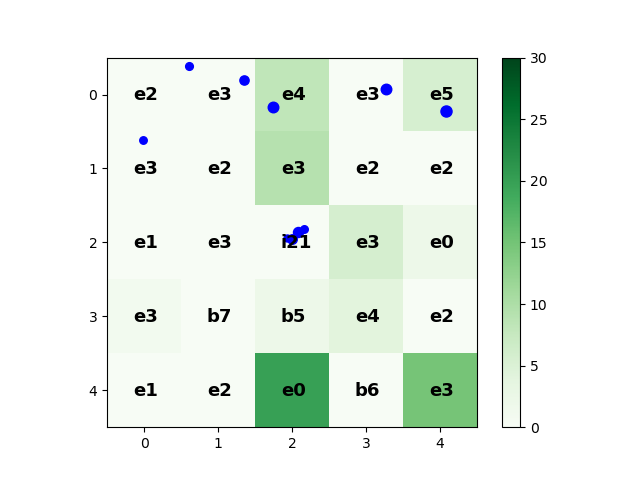
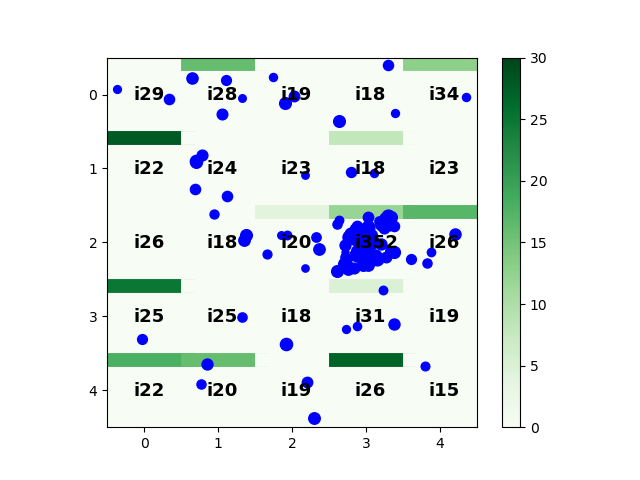
indexing scientist in dept

diff --git a/classScientist.py b/classScientist.py
@@ -12,7 +12,7 @@ class Scientist():
     def __repr__(self):
         """String representation of Scientist"""
         return str([self.hindex, self.career, self.citcount])
-        
+
     def cite(self, val):
         """decides if scientist chooses to cite another scientist in the same cell"""
         choice = np.random.randint(0, 2)
@@ -20,12 +20,15 @@ class Scientist():
         # choice = 1 means they don't cite 
         picked = Scientist()
         if choice == 0:
+            #finding scientist with most citations
             maxcit = 0
             maxSci = Scientist()
             for sci in val:
                 if sci.citcount > maxcit:
                     maxcit = sci.citcount
                     maxSci = sci
+            
+            #find the scientist that actually gets cited
             if maxcit < 5:
                 picked = np.random.choice(val)
             else:

diff --git a/Run.py b/Run.py
@@ -42,7 +42,8 @@ def batchRun(board, numScientists, numRuns):
     for j in range(numRuns):
         # keep track of which cells the scientists are hitting to check overlap
         cellsHit = {}
-        for scientist in dept:
+        for idx in range(len(dept)):
+            scientist = dept[idx]
             location = scientist.chooseCell(board)
             if location in cellsHit.keys():
                 cellsHit[location].append(scientist)
@@ -53,6 +54,7 @@ def batchRun(board, numScientists, numRuns):
                 dept.remove(scientist)
                 dept.append(Scientist())
         print("Board with payoff values: ", run(board, cellsHit, j+1))
+        print("dept: ", dept)
         print()
 
     #animating plots
@@ -64,4 +66,3 @@ def batchRun(board, numScientists, numRuns):
 
 board = Board(5, 5)
 batchRun(board, 10, 10)
-dept

diff --git a/classBoard.py b/classBoard.py
@@ -28,7 +28,7 @@ class Board():
         makes it easier to get a heatmap from a 2D matrix of data"""
         return [[self.board[i][j].payoff for i in range(self.cols)] for j in range(self.rows)]
 
-def drawBoard(self, cellsHit, numRun):
+    def drawBoard(self, cellsHit, numRun):
         """produces a plot of the board for a given run and saves the image"""
         data = self.getPayoffs()
         og = plt.imshow(self.originalPays, cmap="Greens", vmin=0, vmax=30)
